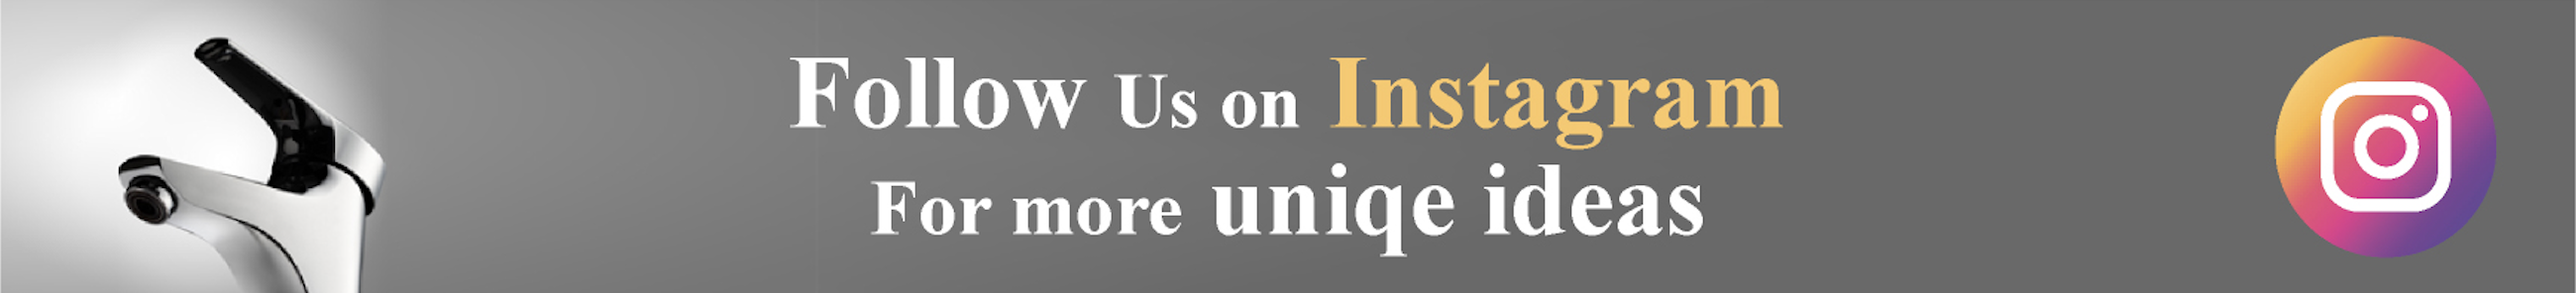
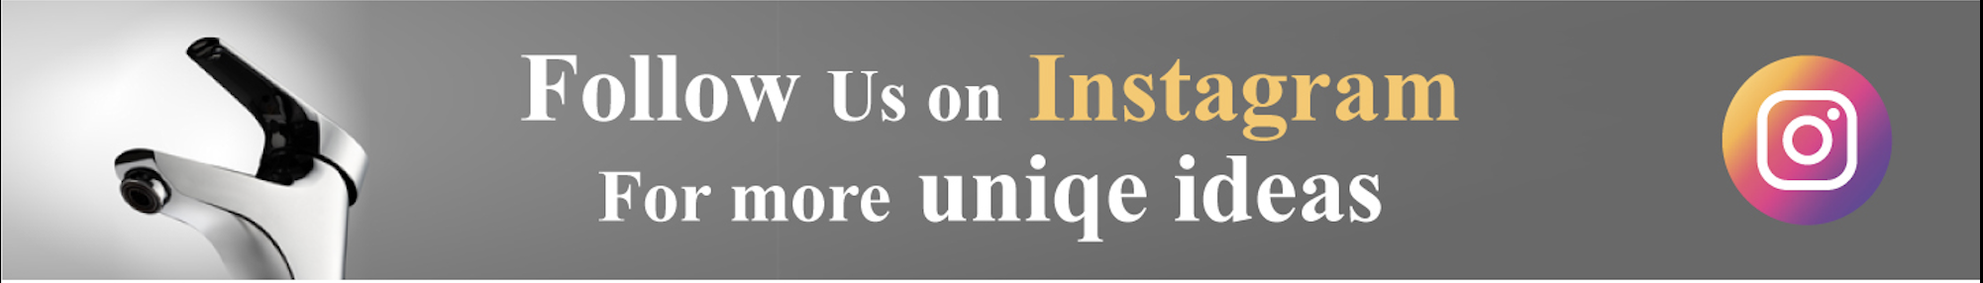
home page images update

Changed region(s): [[0.0, 0.0, 1.0, 1.0], [0.2478, 0.1958, 0.7433, 0.5035], [0.2787, 0.5315, 0.7123, 0.8951]]

diff --git a/Home Mobile/Home_Mobile.html b/Home Mobile/Home_Mobile.html
@@ -831,7 +831,7 @@
 
     <div class="offer_banner">
         <div class="offer_banner_image">
-            <img src="./Images/offer-banner.jpg" width="100%" alt="" height="130px" style="object-fit: cover;">
+            <img src="./Images/offer-banner.jpg" width="100%" alt="">
 
 
 
